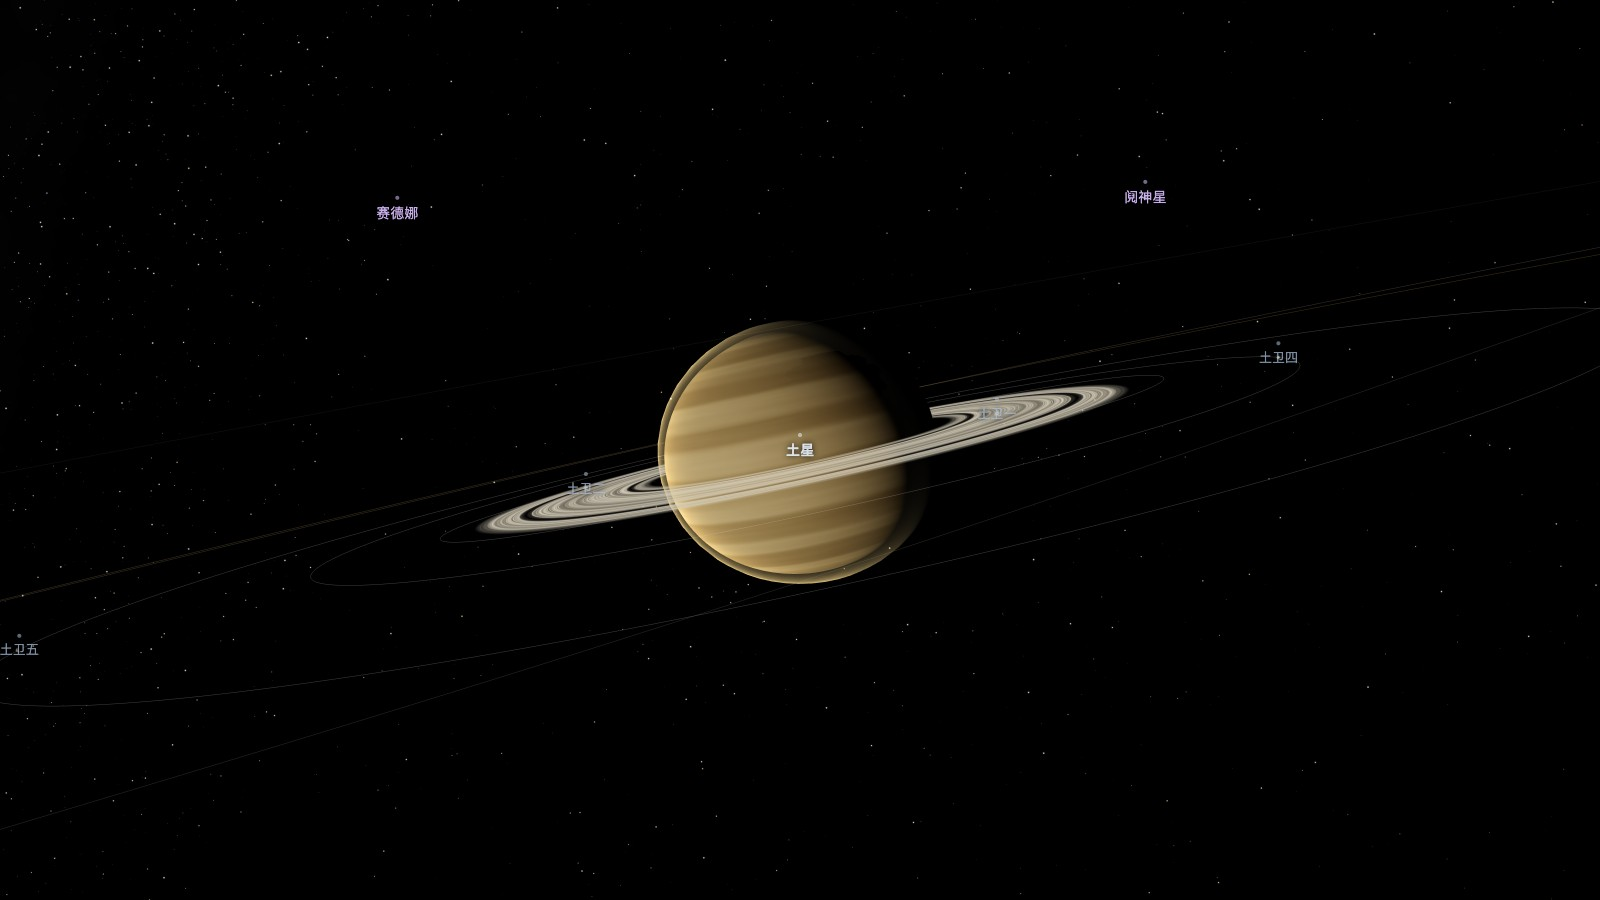
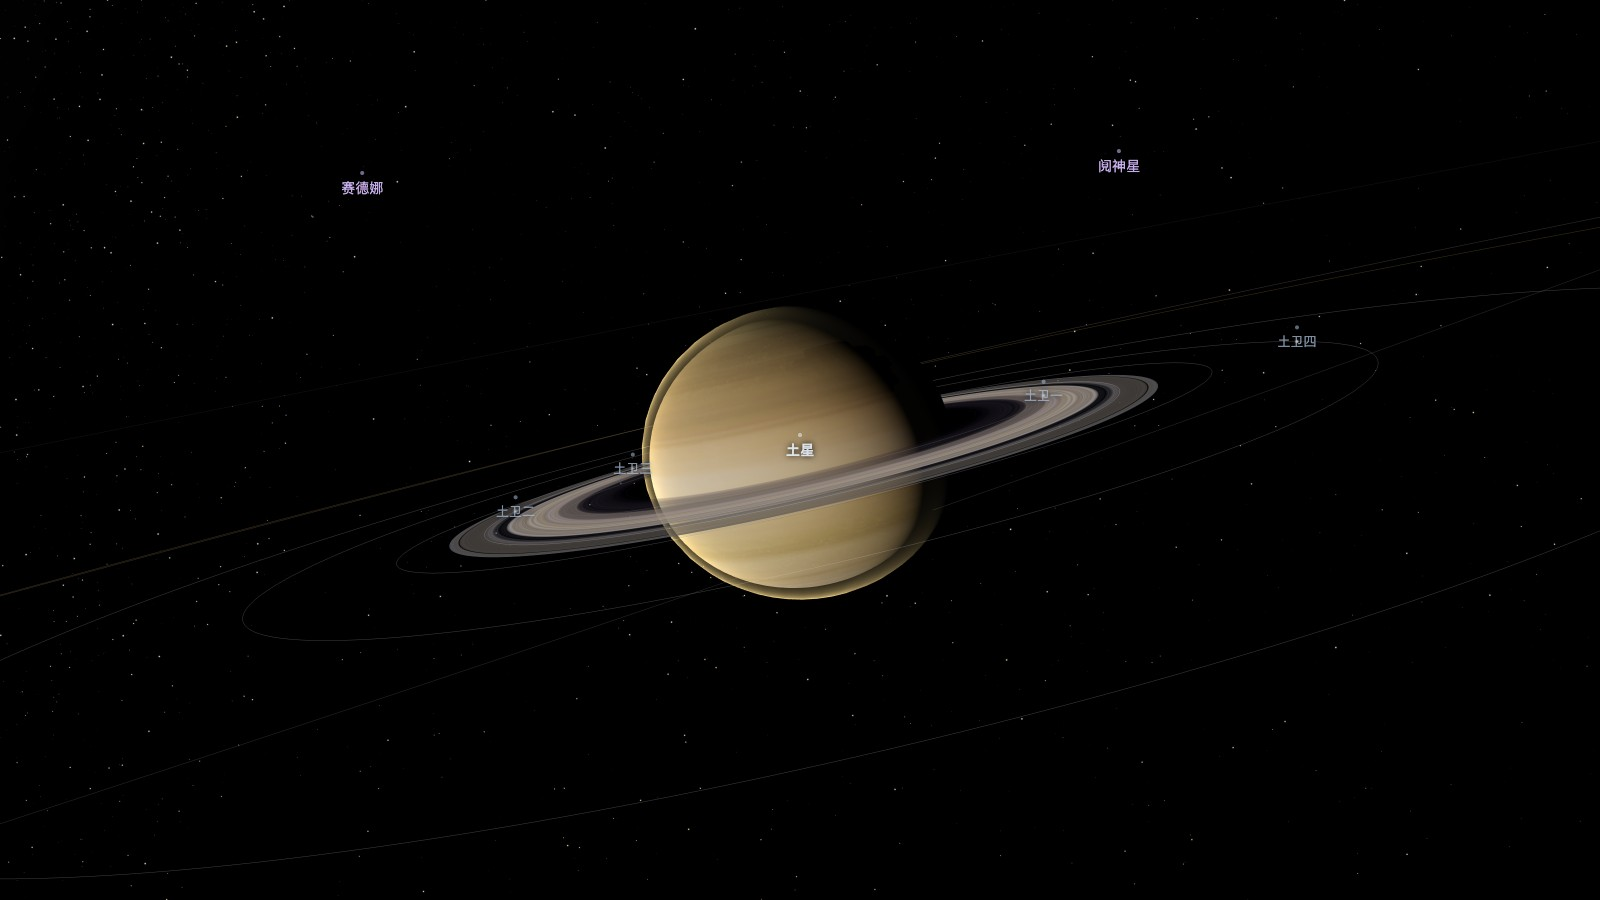
docs: re-shoot texture-dependent screenshots, credit Solar System Scope
The hero, Jupiter and solar-system shots all showed the old procedural
surfaces. Retake them against the photographic maps, and name both
texture sources in the licence section — CC BY 4.0 requires the credit.

diff --git a/README.md b/README.md
@@ -230,8 +230,14 @@ Issues and pull requests are welcome. Two things worth knowing before you open o
 
 MIT — see [LICENSE](LICENSE).
 
-Imagery downloaded by `npm run fetch-textures` is public-domain NASA/JPL material,
-redistributed by the [three.js](https://github.com/mrdoob/three.js) repository.
+Imagery downloaded by `npm run fetch-textures` comes from two places, neither of
+which is redistributed here:
+
+- [Solar System Scope](https://www.solarsystemscope.com/textures/) — the Sun and
+  the planetary surfaces, including Saturn's rings. Licensed
+  [CC BY 4.0](https://creativecommons.org/licenses/by/4.0/).
+- [three.js](https://github.com/mrdoob/three.js) — Earth (day, night, normal,
+  specular, clouds) and the Moon; public-domain NASA/JPL material.
 
 ## Acknowledgements
 

diff --git a/README.zh-CN.md b/README.zh-CN.md
@@ -206,8 +206,12 @@ chunk、相机为什么必须在任何投影之前发布自己的矩阵、判定
 
 MIT，见 [LICENSE](LICENSE)。
 
-`npm run fetch-textures` 下载的影像来自 NASA/JPL（公有领域），
-经由 [three.js](https://github.com/mrdoob/three.js) 仓库分发。
+`npm run fetch-textures` 下载的影像来自两处，均不随本仓库分发：
+
+- [Solar System Scope](https://www.solarsystemscope.com/textures/)——太阳与各行星表面，
+  含土星环，采用 [CC BY 4.0](https://creativecommons.org/licenses/by/4.0/) 许可。
+- [three.js](https://github.com/mrdoob/three.js)——地球（昼、夜、法线、高光、云层）
+  与月球，属 NASA/JPL 公有领域素材。
 
 ## 致谢
 
